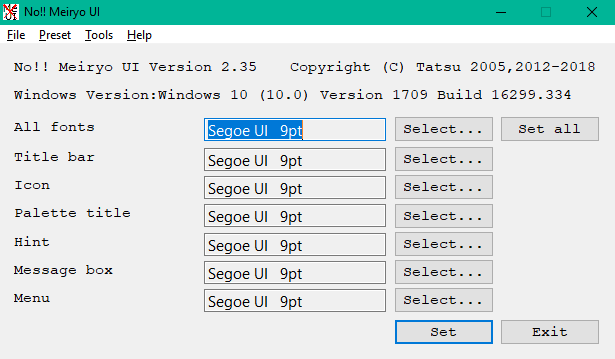
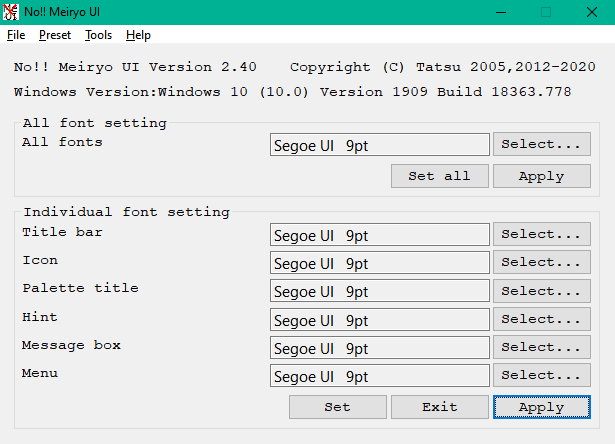
英語版ヘルプをVersion 2.40に合わせて加筆した。

diff --git a/help/en-us/contents/01.html b/help/en-us/contents/01.html
@@ -51,10 +51,16 @@ This program runs on Windows 8,8.1 and 10.<br>
 <td>Chinese (Simplified)_China.lng</td><td>Simplified Chinese message file.</td>
 </tr>
 <tr>
+<td>Chinese (Traditional)_Taiwan.lng</td><td>Traditional Chinese(Taiwan) message file.</td>
+</tr>
+<tr>
 <td>English.lng</td><td>English message file.</td>
 </tr>
 <tr>
 <td>Korean.lng</td><td>Korean message file.</td>
+</tr>
+<tr>
+<td>Portuguese_Brazil.lng</td><td>Portuguese(Brazil) message file.</td>
 </tr>
 <tr>
 <td>default.lng</td><td>Default message file.</td>
@@ -66,10 +72,16 @@ This program runs on Windows 8,8.1 and 10.<br>
 <td>Chinese (Simplified)_China.chm</td><td>Simplified Chinese help file.</td>
 </tr>
 <tr>
+<td>Chinese (Traditional)_Taiwan.chm</td><td>Traditional Chinese(Taiwan) help file.</td>
+</tr>
+<tr>
 <td>English.chm</td><td>English help file.</td>
 </tr>
 <tr>
 <td>Korean.chm</td><td>Korean help file.</td>
+</tr>
+<tr>
+<td>Portuguese_Brazil.chm</td><td>Portuguese(Brazil) help file.</td>
 </tr>
 <tr>
 <td>default.chm</td><td>Default help file.</td>

diff --git a/help/en-us/contents/02.html b/help/en-us/contents/02.html
@@ -1,6 +1,6 @@
 <!DOCTYPE HTML>
 <!--
-noMeiryoUI (C) 2005,2012-2017 Tatsuhiko Shoji
+noMeiryoUI (C) 2005,2012-2020 Tatsuhiko Shoji
 The sources for noMeiryoUI are distributed under the MIT open source license
 -->
 <html>
@@ -28,7 +28,7 @@ This icon(<img src="icon.png" width="32" height="32">).<br>
 
 <p>
 And, below window is displayed.<br>
-<img src="noMeiryoUI.PNG" width="615" height="359"><br>
+<img src="noMeiryoUI.PNG" width="615" height="444"><br>
 Push select... button to set user interface element.<br>
 </p>
 
@@ -40,7 +40,8 @@ When you push select... button, this dialog is displayed.<br>
 Choice font face, font size, font style, charset, and push OK button.
 </p>
 <p>
-Push set button , you can set user interface font.
+Push set button , you can set user interface font and exit.<br>
+Push apply button , you can set user interface font.<br>
 </p>
 
 </div>

diff --git a/help/en-us/contents/03.html b/help/en-us/contents/03.html
@@ -21,6 +21,17 @@ The sources for noMeiryoUI are distributed under the MIT open source license
 <h1>3.History</h1>
 
 <div class="chapter">
+<h2>05/xx/2020 Version 2.40</h2>
+<ul>
+<li>Add apply button.</li>
+<li>Controls are grouped.</li>
+<li>Fixed bug cannot use default path when you specified setting file.</li>
+</ul>
+</div>
+
+<hr>
+
+<div class="chapter">
 <h2>01/13/2020 Version 2.36</h2>
 <ul>
 <li>Exit application after Set all fonts.</li>
@@ -29,6 +40,7 @@ The sources for noMeiryoUI are distributed under the MIT open source license
 <li>Included Chinese translation that was forgotten on Version 2.35.</li>
 </ul>
 </div>
+
 <hr>
 
 <div class="chapter">

diff --git a/help/en-us/contents/04.html b/help/en-us/contents/04.html
@@ -1,6 +1,6 @@
 <!DOCTYPE HTML>
 <!--
-noMeiryoUI (C) 2005,2012-2018 Tatsuhiko Shoji
+noMeiryoUI (C) 2005,2012-2020 Tatsuhiko Shoji
 The sources for noMeiryoUI are distributed under the MIT open source license
 -->
 <html>
